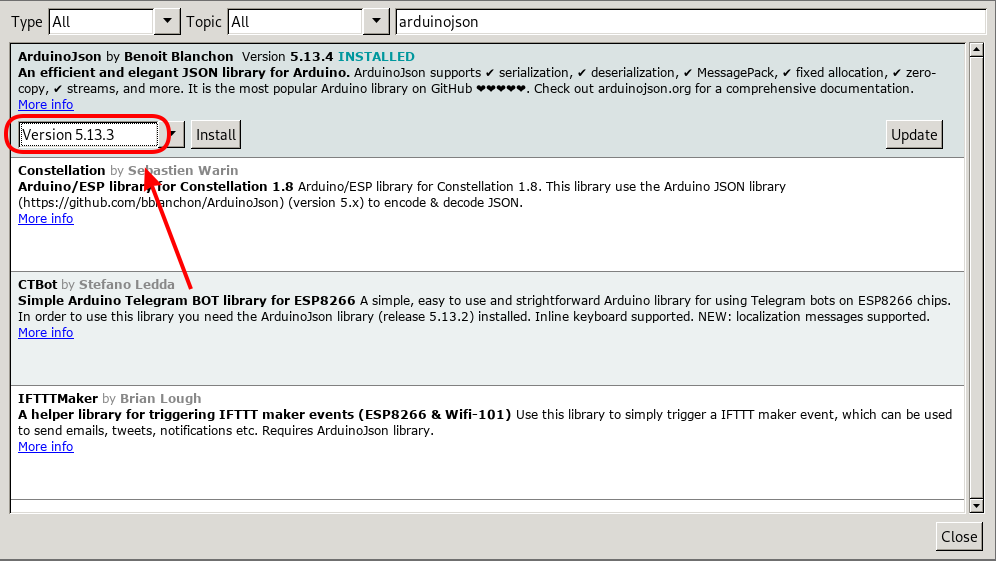
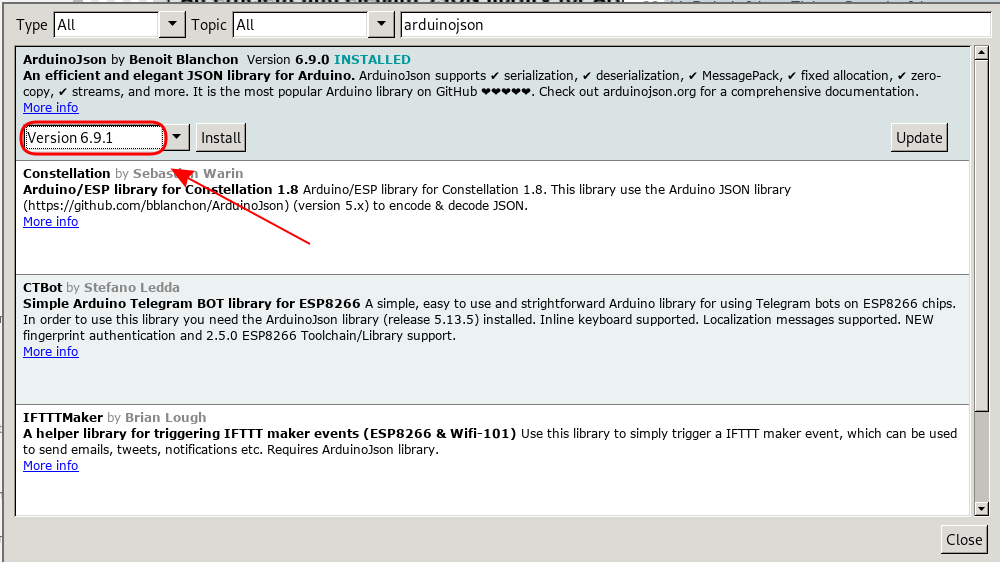
Remove ArduinoJSON varning for v6 library
v6 is now officially released. SDK is re-based accordingly.

Changed region(s): [[0.0, 0.0, 1.0, 1.0]]

diff --git a/docs/samples/esp32/gpio-control-pico-kit-dht22-sensor.md b/docs/samples/esp32/gpio-control-pico-kit-dht22-sensor.md
@@ -131,7 +131,7 @@ To simplify application development, install the ThingsBoard Arduino SDK and its
 
    ![image](/images/samples/esp32/gpio-temperature/install-tb-arduino.png)
 
-1. Install **ArduinoJSON** library. <span style="color:red">Do not install beta releases of the ArduinoJson library. Instead, use **5.13.3** version of the library</span>, as shown in picture below.
+1. Install **ArduinoJSON** library **v6.9.1** or higher. <span style="color:red">Avoid installing beta releases of the ArduinoJson library</span>.
 
    ![image](/images/samples/esp32/gpio-temperature/do-not-use-beta-version-arduinojson.png)
 
